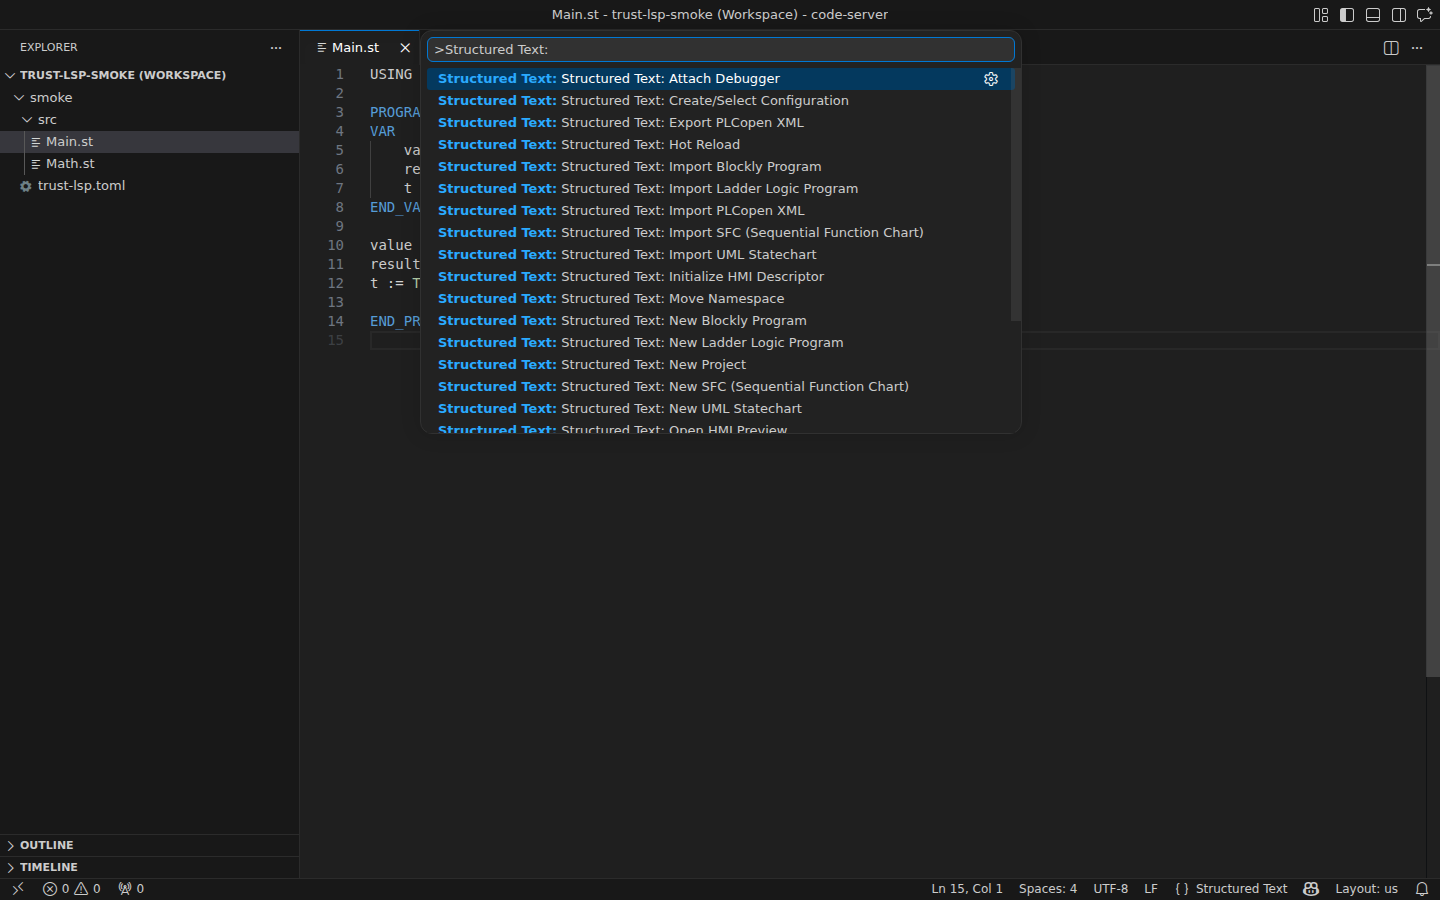
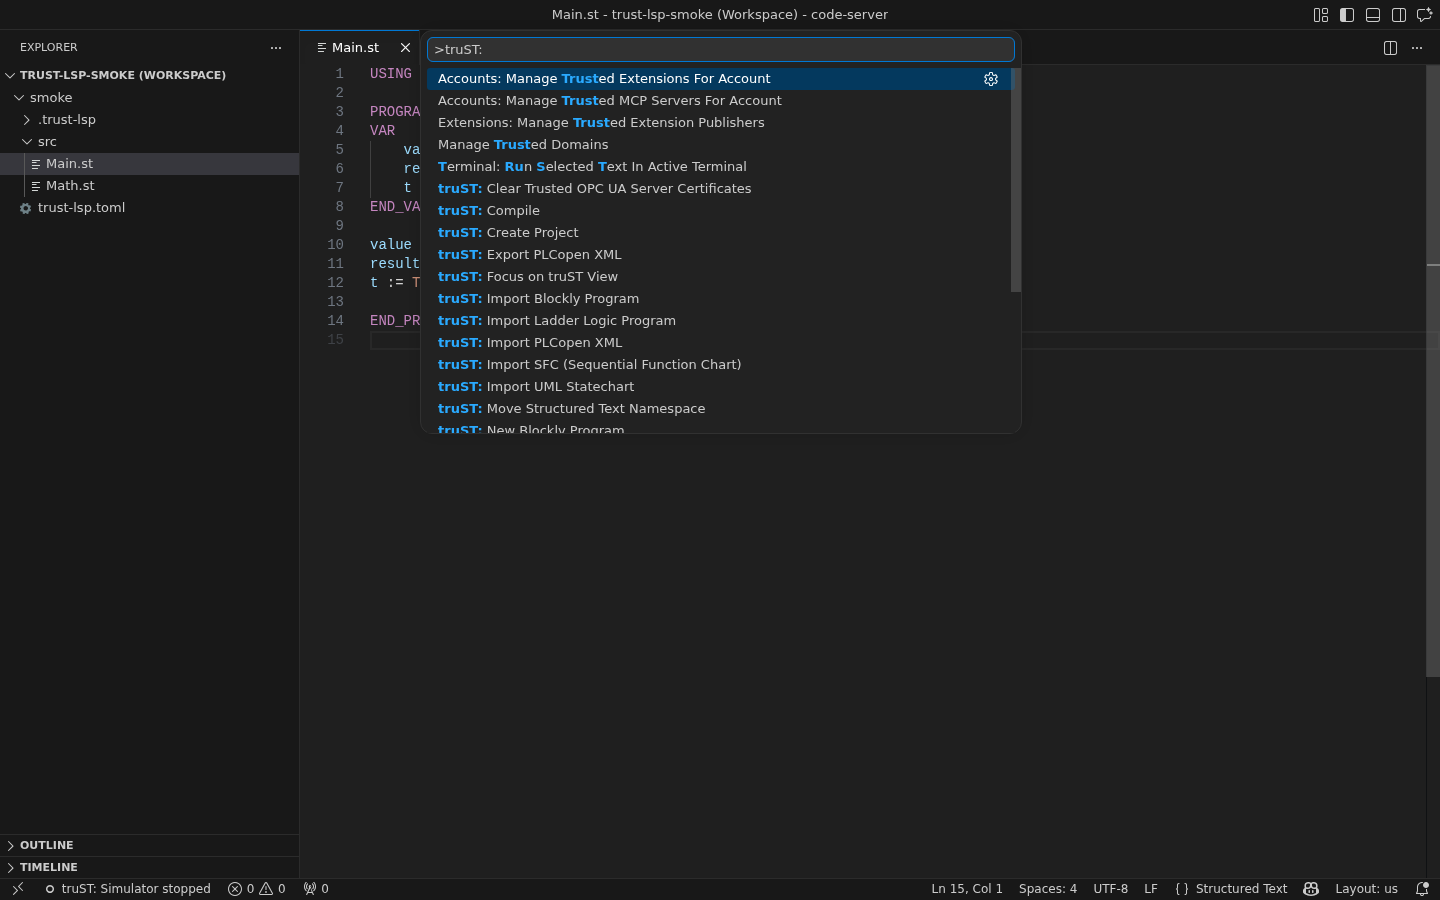
Align code-server capture with accepted truST commands
Regression-test-first: post-merge Docs Captures run 29419724294 failed because the code-server test asserted removed Structured Text-prefixed commands. The real packaged-extension Playwright test then passed locally against the current ARM64 trust-lsp after asserting the rendered truST command entries.

Release-scope: v0.24.34 capture harness and generated screenshot only; no product runtime, command contribution, or UI source changed.

diff --git a/CHANGELOG.md b/CHANGELOG.md
@@ -18,8 +18,9 @@ Target release: `v0.24.34`
 ### Fixed
 
 - ci/docs: Browser IDE capture automation now requests the editor session
-  required to switch the active tutorial project, keeping post-merge docs
-  captures aligned with the IDE authorization contract.
+  required to switch the active tutorial project, and code-server captures now
+  assert the accepted `truST:` command category, keeping post-merge docs
+  captures aligned with the shipped authorization and command contracts.
 - vscode/trust-runtime: Windows ADS discovery now uses the installed TwinCAT
   router for same-computer port and symbol operations, and Devices & Connections
   no longer offers an unverified ADS identity as an actionable fallback device.
